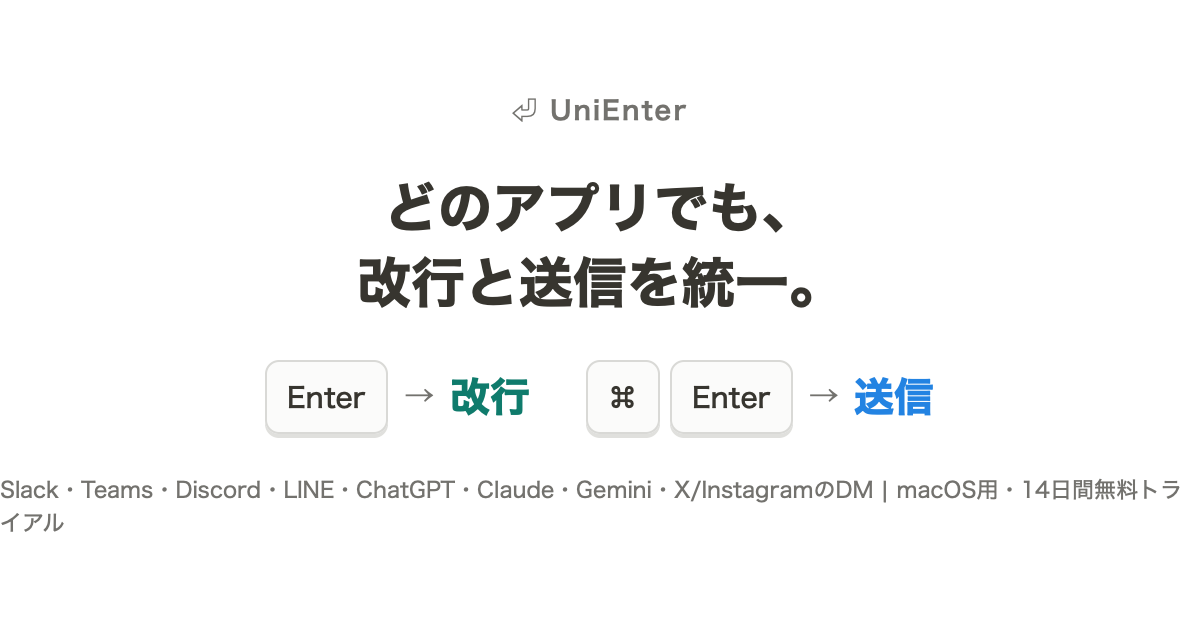
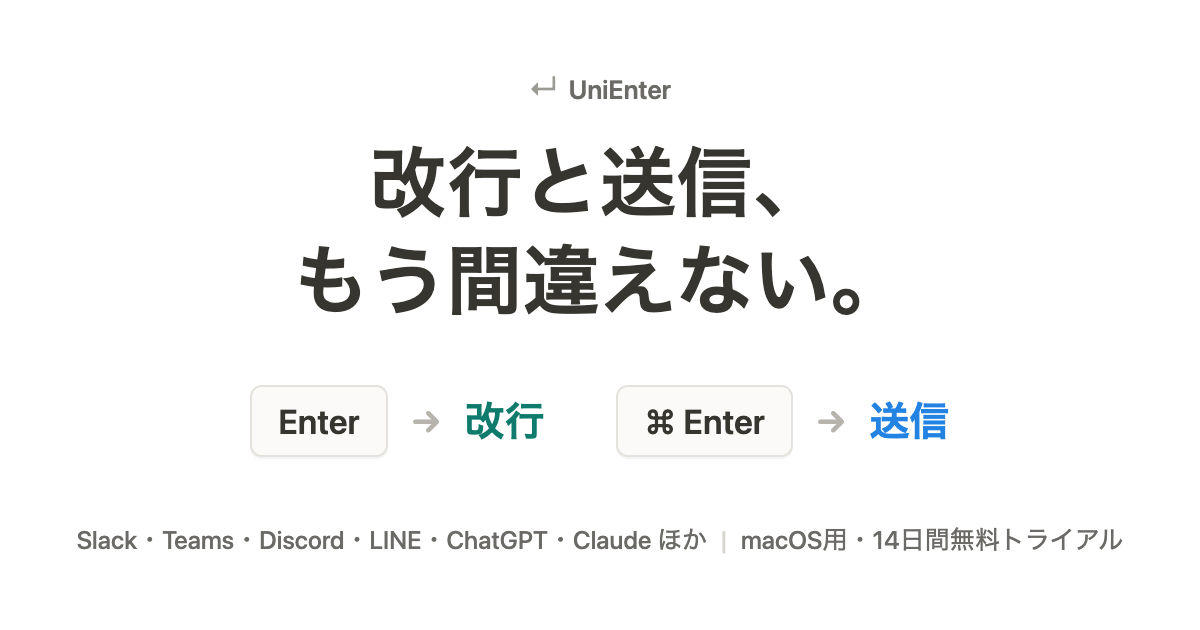
LP・README・告知素材のキャッチコピーを統一
主メッセージ「改行と送信、もう間違えない。」/ 副メッセージ
「どのアプリでも Enterは改行、送信は⌘Enter。」に全面統一。
OG画像を作り直し(ソース site/og.html、下段の折り返しも解消)。
GitHubリポジトリの説明とhomepage(unienter.oc-to.com)も更新済み。

diff --git a/site/og.html b/site/og.html
@@ -1,0 +1,121 @@
+<!doctype html>
+<html lang="ja">
+  <head>
+    <meta charset="UTF-8" />
+    <title>OGP画像ソース — UniEnter</title>
+    <meta name="robots" content="noindex" />
+    <style>
+      * {
+        box-sizing: border-box;
+        margin: 0;
+        padding: 0;
+      }
+      html,
+      body {
+        width: 1200px;
+        height: 630px;
+        overflow: hidden;
+        background: #ffffff;
+        font-family:
+          -apple-system,
+          BlinkMacSystemFont,
+          "Hiragino Sans",
+          "Hiragino Kaku Gothic ProN",
+          sans-serif;
+        color: #37352f;
+      }
+      .canvas {
+        width: 1200px;
+        height: 630px;
+        position: relative;
+        display: flex;
+        flex-direction: column;
+        align-items: center;
+        justify-content: center;
+        padding: 0 80px;
+      }
+      .mark {
+        display: flex;
+        align-items: center;
+        gap: 10px;
+        font-size: 26px;
+        font-weight: 600;
+        color: #6b6a66;
+        margin-bottom: 28px;
+      }
+      .mark .glyph {
+        font-size: 30px;
+        font-weight: 400;
+        color: #9a9994;
+      }
+      h1 {
+        font-size: 76px;
+        font-weight: 700;
+        line-height: 1.28;
+        text-align: center;
+        letter-spacing: 0.01em;
+      }
+      .keys {
+        display: flex;
+        align-items: center;
+        gap: 22px;
+        margin-top: 56px;
+        font-size: 40px;
+        font-weight: 700;
+      }
+      .keycap {
+        display: inline-flex;
+        align-items: center;
+        gap: 8px;
+        border: 2px solid #e4e2dd;
+        background: #fbfaf8;
+        border-radius: 12px;
+        padding: 14px 26px;
+        font-size: 34px;
+        font-weight: 600;
+        color: #37352f;
+        box-shadow: 0 2px 0 rgba(55, 53, 47, 0.06);
+      }
+      .arrow {
+        color: #b6b4ad;
+        font-size: 34px;
+      }
+      .result-newline {
+        color: #0f7b6c;
+      }
+      .result-send {
+        color: #2383e2;
+      }
+      .footline {
+        margin-top: 64px;
+        font-size: 25px;
+        font-weight: 500;
+        color: #6b6a66;
+        white-space: nowrap;
+        text-align: center;
+      }
+      .footline .sep {
+        margin: 0 14px;
+        color: #d8d6d0;
+      }
+    </style>
+  </head>
+  <body>
+    <div class="canvas">
+      <div class="mark"><span class="glyph">&#8629;</span> UniEnter</div>
+      <h1>改行と送信、<br />もう間違えない。</h1>
+      <div class="keys">
+        <span class="keycap">Enter</span>
+        <span class="arrow">&rarr;</span>
+        <span class="result-newline">改行</span>
+        <span style="width: 28px"></span>
+        <span class="keycap">&#8984; Enter</span>
+        <span class="arrow">&rarr;</span>
+        <span class="result-send">送信</span>
+      </div>
+      <div class="footline">
+        Slack・Teams・Discord・LINE・ChatGPT・Claude ほか<span class="sep">|</span>macOS用・14日間無料トライアル
+      </div>
+    </div>
+  </body>
+</html>

diff --git a/docs/index.html b/docs/index.html
@@ -5,7 +5,7 @@
     <meta name="viewport" content="width=device-width, initial-scale=1.0" />
     <link rel="icon" type="image/svg+xml" href="./favicon.svg" />
     <title>UniEnter — 改行と送信、もう間違えない。</title>
-    <meta name="description" content="書きかけのメッセージが、Enterひとつで飛んでいく。あの「うっかり送信」をMacから無くします。Slack・Teams・Discord・LINE・ChatGPT・Claude・Gemini・Messenger・X/InstagramのDMとそのブラウザ版で、Enterは改行・送信は⌘Enterに統一。日本語の変換中のEnterには触れません。14日間無料トライアル・買い切り。" />
+    <meta name="description" content="書きかけのメッセージが、Enterひとつで飛んでいく。あの「うっかり送信」をMacから無くします。どのアプリでも Enterは改行、送信は⌘Enter。対応: Slack・Teams・Discord・LINE・ChatGPT・Claude・Gemini・Messenger・X/InstagramのDMとそのブラウザ版。日本語の変換中のEnterには触れません。14日間無料トライアル・買い切り。" />
     <meta property="og:title" content="UniEnter — 改行と送信、もう間違えない。" />
     <meta property="og:description" content="書きかけのメッセージが、Enterひとつで飛んでいく。あの「うっかり送信」をMacから無くします。どのアプリでも Enterは改行、送信は⌘Enter。" />
     <meta property="og:image" content="https://unienter.oc-to.com/assets/og.png" />

diff --git a/site/index.html b/site/index.html
@@ -5,7 +5,7 @@
     <meta name="viewport" content="width=device-width, initial-scale=1.0" />
     <link rel="icon" type="image/svg+xml" href="./favicon.svg" />
     <title>UniEnter — 改行と送信、もう間違えない。</title>
-    <meta name="description" content="書きかけのメッセージが、Enterひとつで飛んでいく。あの「うっかり送信」をMacから無くします。Slack・Teams・Discord・LINE・ChatGPT・Claude・Gemini・Messenger・X/InstagramのDMとそのブラウザ版で、Enterは改行・送信は⌘Enterに統一。日本語の変換中のEnterには触れません。14日間無料トライアル・買い切り。" />
+    <meta name="description" content="書きかけのメッセージが、Enterひとつで飛んでいく。あの「うっかり送信」をMacから無くします。どのアプリでも Enterは改行、送信は⌘Enter。対応: Slack・Teams・Discord・LINE・ChatGPT・Claude・Gemini・Messenger・X/InstagramのDMとそのブラウザ版。日本語の変換中のEnterには触れません。14日間無料トライアル・買い切り。" />
     <meta property="og:title" content="UniEnter — 改行と送信、もう間違えない。" />
     <meta property="og:description" content="書きかけのメッセージが、Enterひとつで飛んでいく。あの「うっかり送信」をMacから無くします。どのアプリでも Enterは改行、送信は⌘Enter。" />
     <meta property="og:image" content="https://unienter.oc-to.com/assets/og.png" />

diff --git a/marketing/plan-overview.html b/marketing/plan-overview.html
@@ -115,7 +115,7 @@
 <h2 id="posts">2. リリース文 5パターン</h2>
 
 <h3>A. ストレート型(LPコピーそのまま)</h3>
-<div class="post"><button class="copy">コピー</button><span class="body">どのアプリでも、改行と送信を統一。
+<div class="post"><button class="copy">コピー</button><span class="body">改行と送信、もう間違えない。
 macOSアプリ「UniEnter」を公開しました。
 
 Enterはいつでも改行、送信は⌘Enter。

diff --git a/README.md b/README.md
@@ -1,8 +1,8 @@
 # UniEnter
 
-どのアプリでも「改行/送信」のEnterキー挙動を統一するmacOSメニューバー常駐アプリ。
+改行と送信、もう間違えない。
 
-**統一後の挙動: Enter = 改行、⌘Enter = 送信**
+どのアプリでも Enterは改行、送信は⌘Enter。macOSメニューバー常駐アプリ。
 
 - **ダウンロード**: [最新リリース](https://github.com/iwai-ddndn/UniEnter/releases/latest)(macOS 13以降。`.pkg`をダブルクリックでインストール、`.zip`版もあり)
 - **価格**: 14日間無料トライアル付き・¥1,480(税込)買い切り。詳細は紹介ページへ

diff --git a/marketing/announcement-drafts.md b/marketing/announcement-drafts.md
@@ -5,7 +5,7 @@
 ## A. ストレート型(LPコピーそのまま)
 
 ```
-どのアプリでも、改行と送信を統一。
+改行と送信、もう間違えない。
 macOSアプリ「UniEnter」を公開しました。
 
 Enterはいつでも改行、送信は⌘Enter。
